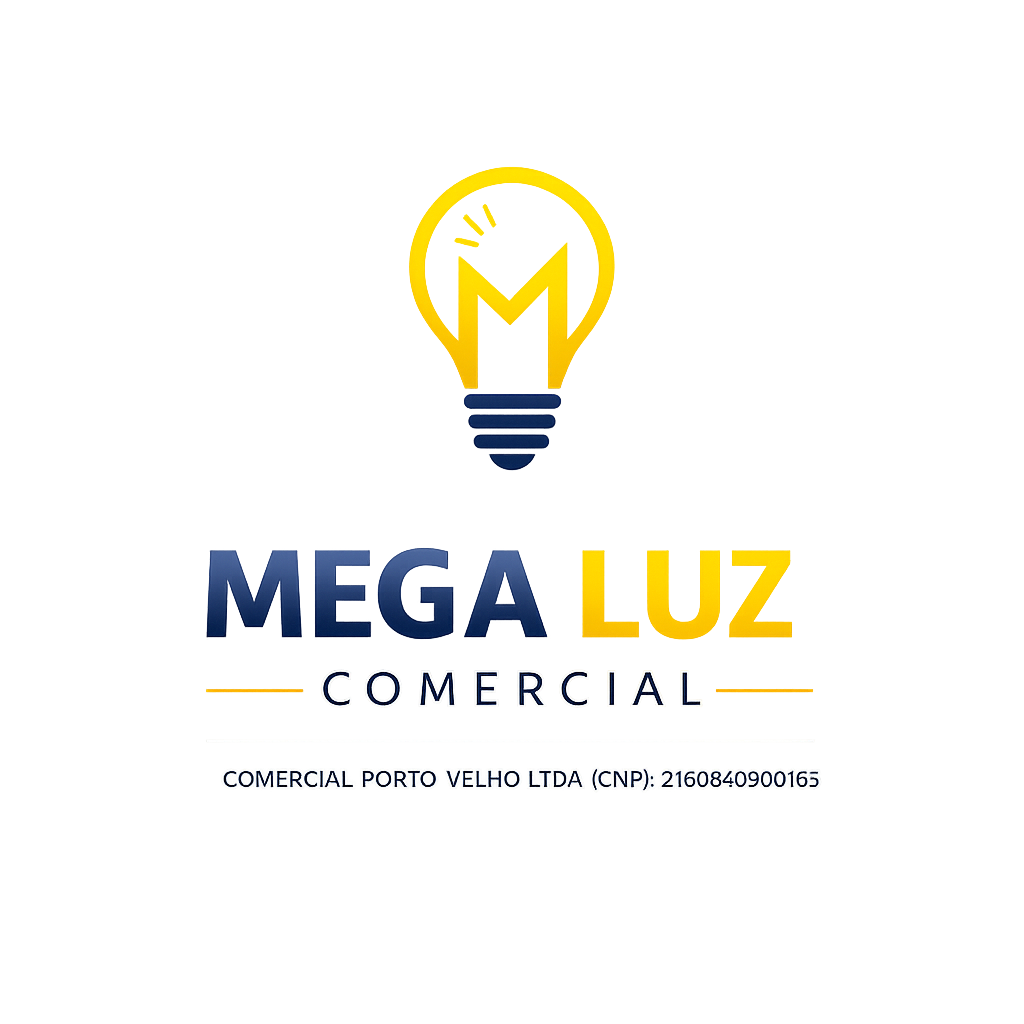
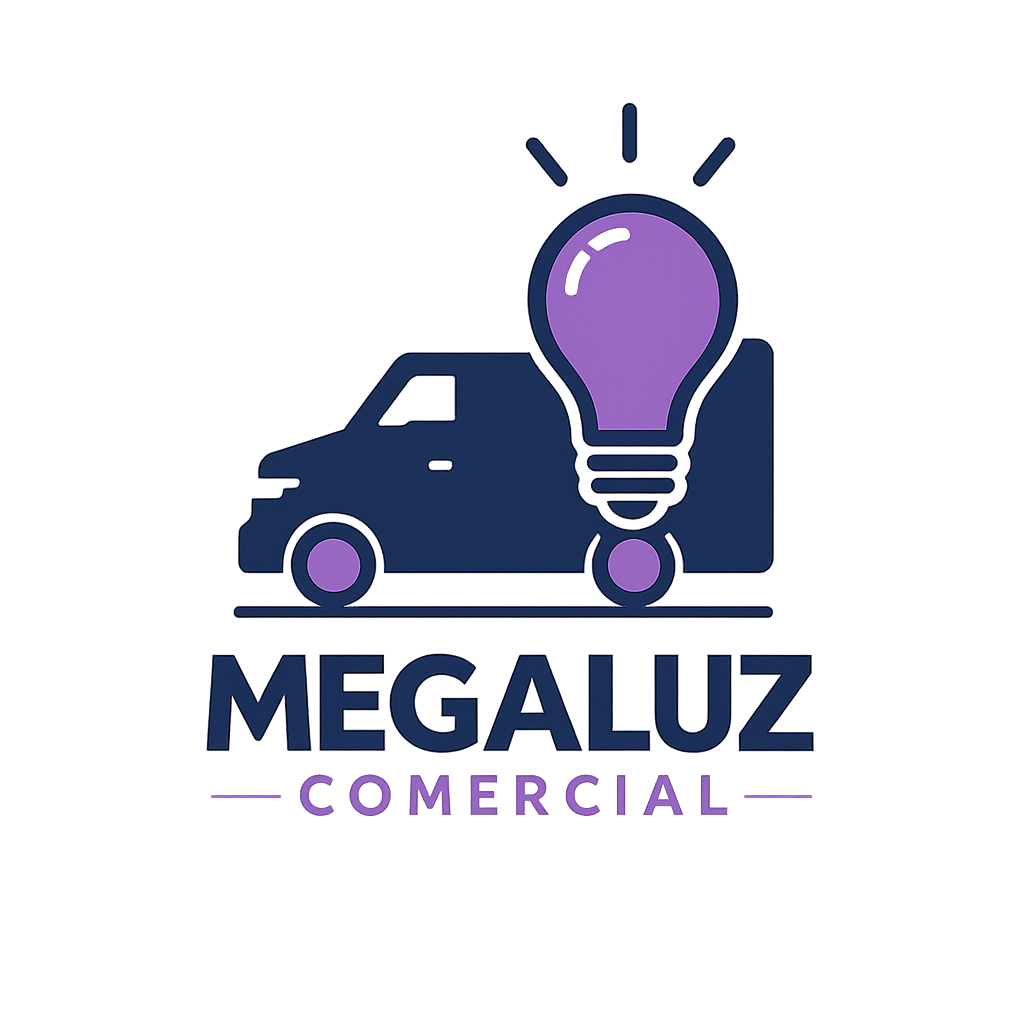
correção icone

Changed region(s): [[0.1875, 0.125, 0.8125, 0.8125], [0.5938, 0.0938, 0.625, 0.1562]]

diff --git a/src/app/pages/pedidos/pedidos.component.ts b/src/app/pages/pedidos/pedidos.component.ts
@@ -89,7 +89,7 @@ class PedidosDateAdapter extends NativeDateAdapter {
 })
 export class PedidosComponent implements OnInit {
   private readonly importBatchMaxLines = 300;
-  private readonly brandLogoPath = 'assets/mega-luz-logo.png';
+  private readonly brandLogoPath = 'assets/light-brand.png';
   private brandLogoDataUrlPromise: Promise<string> | null = null;
   todosPedidos: Pedido[] = [];
   pedidos: Pedido[] = [];
@@ -537,39 +537,25 @@ export class PedidosComponent implements OnInit {
       let headerEndY = 28;
 
       try {
-        const brandLogo = await this.getBrandLogoDataUrl();
+        const brandIcon = await this.getBrandLogoDataUrl();
         await new Promise<void>((resolve) => {
           const img = new Image();
           img.onload = () => {
-            // Crop: remove side margins (~3% each) and bottom ~38% empty white space
-            const sx = Math.round(img.naturalWidth * 0.03);
-            const sw = Math.round(img.naturalWidth * 0.94);
-            const sh = Math.round(img.naturalHeight * 0.62);
-            const canvas = document.createElement('canvas');
-            canvas.width = sw;
-            canvas.height = sh;
-            const ctx = canvas.getContext('2d')!;
-            ctx.drawImage(img, sx, 0, sw, sh, 0, 0, sw, sh);
-            const croppedUrl = canvas.toDataURL('image/png');
-            // At 208mm wide, height = 208 * (sh/sw) — keeps exact aspect ratio
-            const dispW = 208;
-            const dispH = Math.round(dispW * sh / sw);
-            doc.addImage(croppedUrl, 'PNG', 1, 0, dispW, dispH);
-            // Light separator line below header
-            doc.setDrawColor(210, 210, 210);
-            doc.setLineWidth(0.3);
-            doc.line(10, dispH + 1, 200, dispH + 1);
-            headerEndY = dispH + 5;
+            doc.addImage(brandIcon, 'PNG', 10, 4, 14, 14);
             resolve();
           };
           img.onerror = () => resolve();
-          img.src = brandLogo;
+          img.src = brandIcon;
         });
-      } catch {
-        doc.setTextColor(27, 43, 84); doc.setFontSize(22); doc.setFont('helvetica', 'bold');
-        doc.text('MEGA LUZ COMERCIAL', 14, 20);
-        headerEndY = 28;
-      }
+      } catch { /* ícone opcional */ }
+      doc.setTextColor(27, 43, 84);
+      doc.setFontSize(18);
+      doc.setFont('helvetica', 'bold');
+      doc.text('Mega Luz Comercial', pw / 2, 13, { align: 'center' });
+      doc.setDrawColor(200, 200, 200);
+      doc.setLineWidth(0.3);
+      doc.line(10, 22, pw - 10, 22);
+      headerEndY = 27;
 
       doc.setTextColor(0, 0, 0);
       doc.setFontSize(12); doc.setFont('helvetica', 'bold');
@@ -588,6 +574,20 @@ export class PedidosComponent implements OnInit {
       doc.setFontSize(10); doc.setFont('helvetica', 'normal'); doc.setTextColor(100, 100, 100);
       doc.text(`Pedido: ${p.numero}`, pw / 2, nextY, { align: 'center' });
       nextY += 10;
+
+      // Informações de pagamento e NF
+      doc.setFontSize(9); doc.setFont('helvetica', 'normal'); doc.setTextColor(60, 60, 60);
+      if (p.formaPagamentoDescricao) {
+        doc.text(`Forma de Pagamento: ${p.formaPagamentoDescricao}`, 14, nextY);
+        nextY += 6;
+      }
+      if (p.prazoPagamentoDescricao) {
+        doc.text(`Prazo / Parcelas: ${p.prazoPagamentoDescricao}`, 14, nextY);
+        nextY += 6;
+      }
+      doc.text(`Nota Fiscal: ${p.notaFiscal ? 'Sim' : 'Não'}`, 14, nextY);
+      nextY += 10;
+
       doc.setTextColor(0, 0, 0); doc.setFontSize(14); doc.setFont('helvetica', 'bold');
       doc.text(`${p.itens?.length || 0} itens`, 14, nextY + 3);
       const rows = (p.itens || []).map(i => [i.quantidade,

diff --git a/src/app/pages/comissoes/comissoes.component.ts b/src/app/pages/comissoes/comissoes.component.ts
@@ -93,7 +93,7 @@ class ComissoesDateAdapter extends NativeDateAdapter {
 export class ComissoesComponent implements OnInit {
   readonly displayedColumns = ['numero', 'dataFinalizacao', 'clienteNome', 'valorTotal', 'custoTotal', 'lucroTotal'];
 
-  private readonly brandLogoPath = 'assets/mega-luz-logo.png';
+  private readonly brandLogoPath = 'assets/light-brand.png';
   private brandLogoDataUrlPromise: Promise<string> | null = null;
 
   readonly form = this.fb.group({
@@ -234,36 +234,25 @@ export class ComissoesComponent implements OnInit {
     let headerEndY = 28;
 
     try {
-      const brandLogo = await this.getBrandLogoDataUrl();
+      const brandIcon = await this.getBrandLogoDataUrl();
       await new Promise<void>((resolve) => {
         const img = new Image();
         img.onload = () => {
-          const sx = Math.round(img.naturalWidth * 0.03);
-          const sw = Math.round(img.naturalWidth * 0.94);
-          const sh = Math.round(img.naturalHeight * 0.62);
-          const canvas = document.createElement('canvas');
-          canvas.width = sw;
-          canvas.height = sh;
-          const ctx = canvas.getContext('2d')!;
-          ctx.drawImage(img, sx, 0, sw, sh, 0, 0, sw, sh);
-          const croppedUrl = canvas.toDataURL('image/png');
-          const dispW = 208;
-          const dispH = Math.round(dispW * sh / sw);
-          doc.addImage(croppedUrl, 'PNG', 1, 0, dispW, dispH);
-          doc.setDrawColor(210, 210, 210);
-          doc.setLineWidth(0.3);
-          doc.line(10, dispH + 1, 200, dispH + 1);
-          headerEndY = dispH + 5;
+          doc.addImage(brandIcon, 'PNG', 10, 4, 14, 14);
           resolve();
         };
         img.onerror = () => resolve();
-        img.src = brandLogo;
+        img.src = brandIcon;
       });
-    } catch {
-      doc.setTextColor(27, 43, 84); doc.setFontSize(22); doc.setFont('helvetica', 'bold');
-      doc.text('MEGA LUZ COMERCIAL', 14, 20);
-      headerEndY = 28;
-    }
+    } catch { /* ícone opcional */ }
+    doc.setTextColor(27, 43, 84);
+    doc.setFontSize(18);
+    doc.setFont('helvetica', 'bold');
+    doc.text('Mega Luz Comercial', pw / 2, 13, { align: 'center' });
+    doc.setDrawColor(200, 200, 200);
+    doc.setLineWidth(0.3);
+    doc.line(10, 22, pw - 10, 22);
+    headerEndY = 27;
 
     doc.setFont('helvetica', 'bold');
     doc.setFontSize(14);

diff --git a/src/app/pages/dashboard/dashboard.component.html b/src/app/pages/dashboard/dashboard.component.html
@@ -9,7 +9,7 @@
         </div>
         <div class="hero-highlights">
           <div class="hero-highlight">
-            <span class="highlight-label">Faturamento</span>
+            <span class="highlight-label">{{ faturamentoLabel }}</span>
             <strong>{{data.faturamentoTotal | currency:'BRL'}}</strong>
           </div>
           <div class="hero-highlight">
@@ -75,7 +75,7 @@
         <mat-card class="kpi-card">
           <mat-icon class="kpi-icon" style="color:#2e7d32">attach_money</mat-icon>
           <div class="kpi-value">{{data.faturamentoTotal | currency:'BRL'}}</div>
-          <div class="kpi-label">Faturamento</div>
+          <div class="kpi-label">{{ faturamentoLabel }}</div>
         </mat-card>
         <mat-card class="kpi-card" [class.alerta]="data.produtosEstoqueBaixo > 0">
           <mat-icon class="kpi-icon" style="color:#c62828">warning</mat-icon>

diff --git a/src/app/core/services/dashboard.service.ts b/src/app/core/services/dashboard.service.ts
@@ -159,12 +159,18 @@ export class DashboardService {
       return sum + this.parseNumeric(pedido.valor_total);
     }, 0);
 
+    const agora = new Date();
+    const mesRef = filtroAtivo ? filtroMes! : agora.getMonth() + 1;
+    const anoRef = filtroAtivo ? filtroAno! : agora.getFullYear();
+
     const faturamentoTotal = pedidos.reduce((sum, pedido) => {
       const status = this.normalizeStatus(pedido.status);
-      if (status !== 'FINALIZADO') {
-        return sum;
-      }
-
+      if (status !== 'FINALIZADO') return sum;
+      const rawDate = pedido.data_finalizacao ?? pedido.data;
+      if (!rawDate) return sum;
+      const d = new Date(rawDate);
+      if (isNaN(d.getTime())) return sum;
+      if (d.getMonth() + 1 !== mesRef || d.getFullYear() !== anoRef) return sum;
       return sum + this.parseNumeric(pedido.valor_total);
     }, 0);
 

diff --git a/src/app/pages/dashboard/dashboard.component.ts b/src/app/pages/dashboard/dashboard.component.ts
@@ -133,6 +133,10 @@ export class DashboardComponent implements OnInit {
     return m[s] || s;
   }
 
+  get faturamentoLabel(): string {
+    return this.filtroAtivo ? `Faturamento ${this.filtroLabel}` : 'Faturamento do Mês';
+  }
+
   loadDashboard(mes?: number, ano?: number): void {
     this.dashboardService.getDashboard(mes, ano).subscribe(d => {
       this.data = d;
